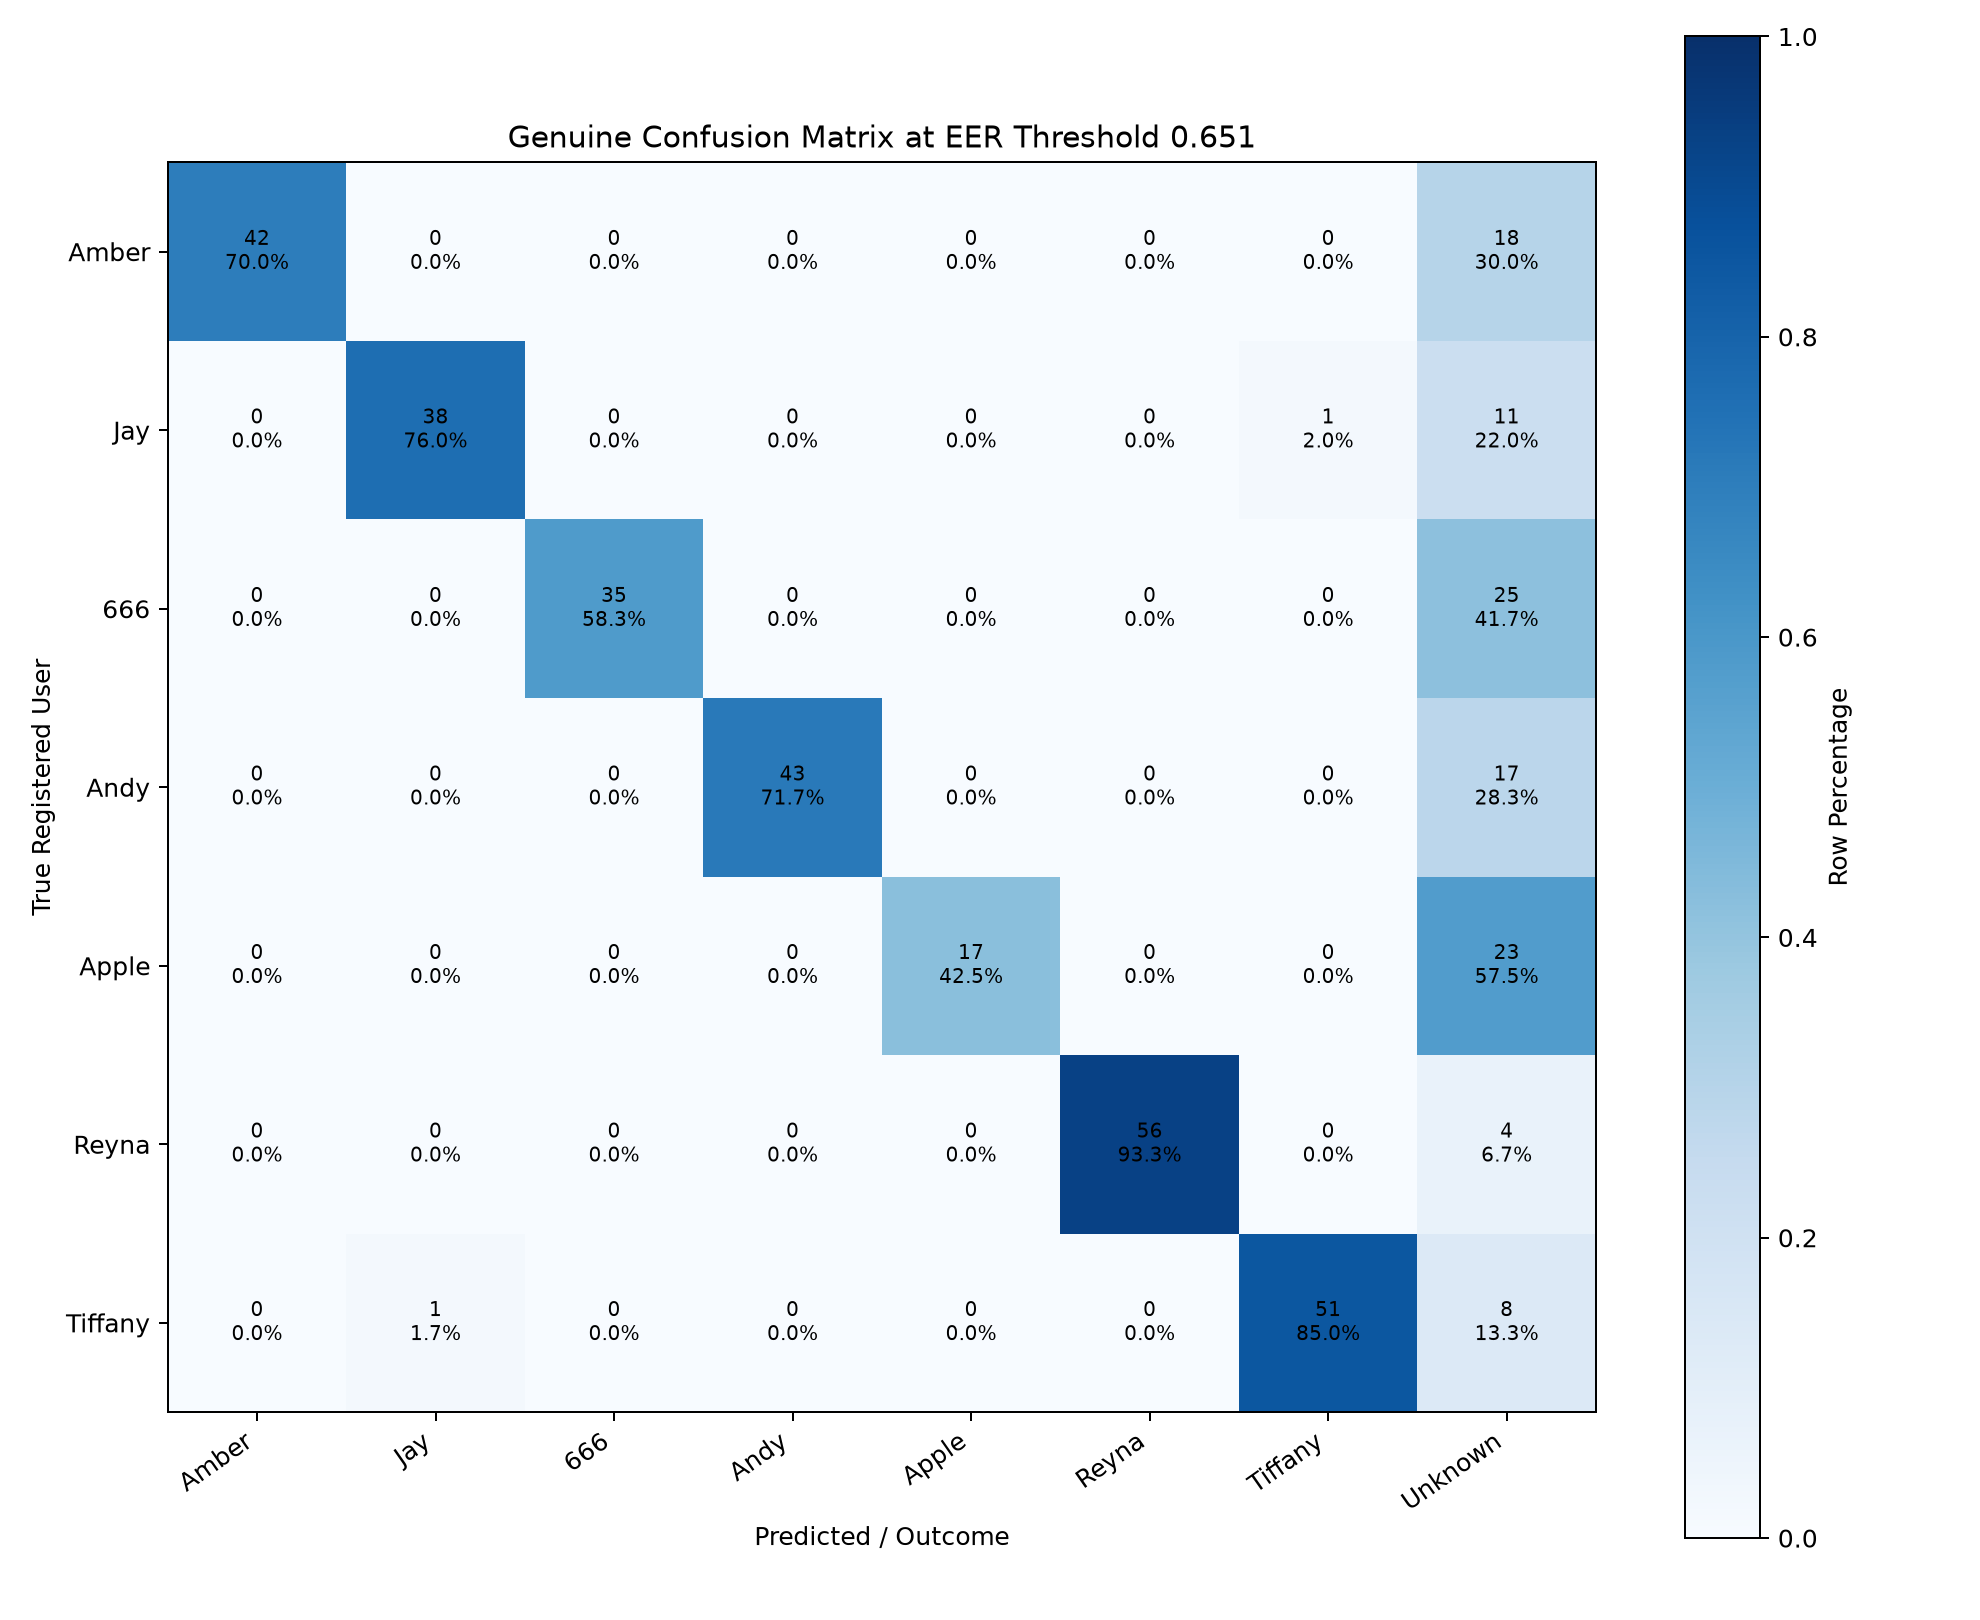
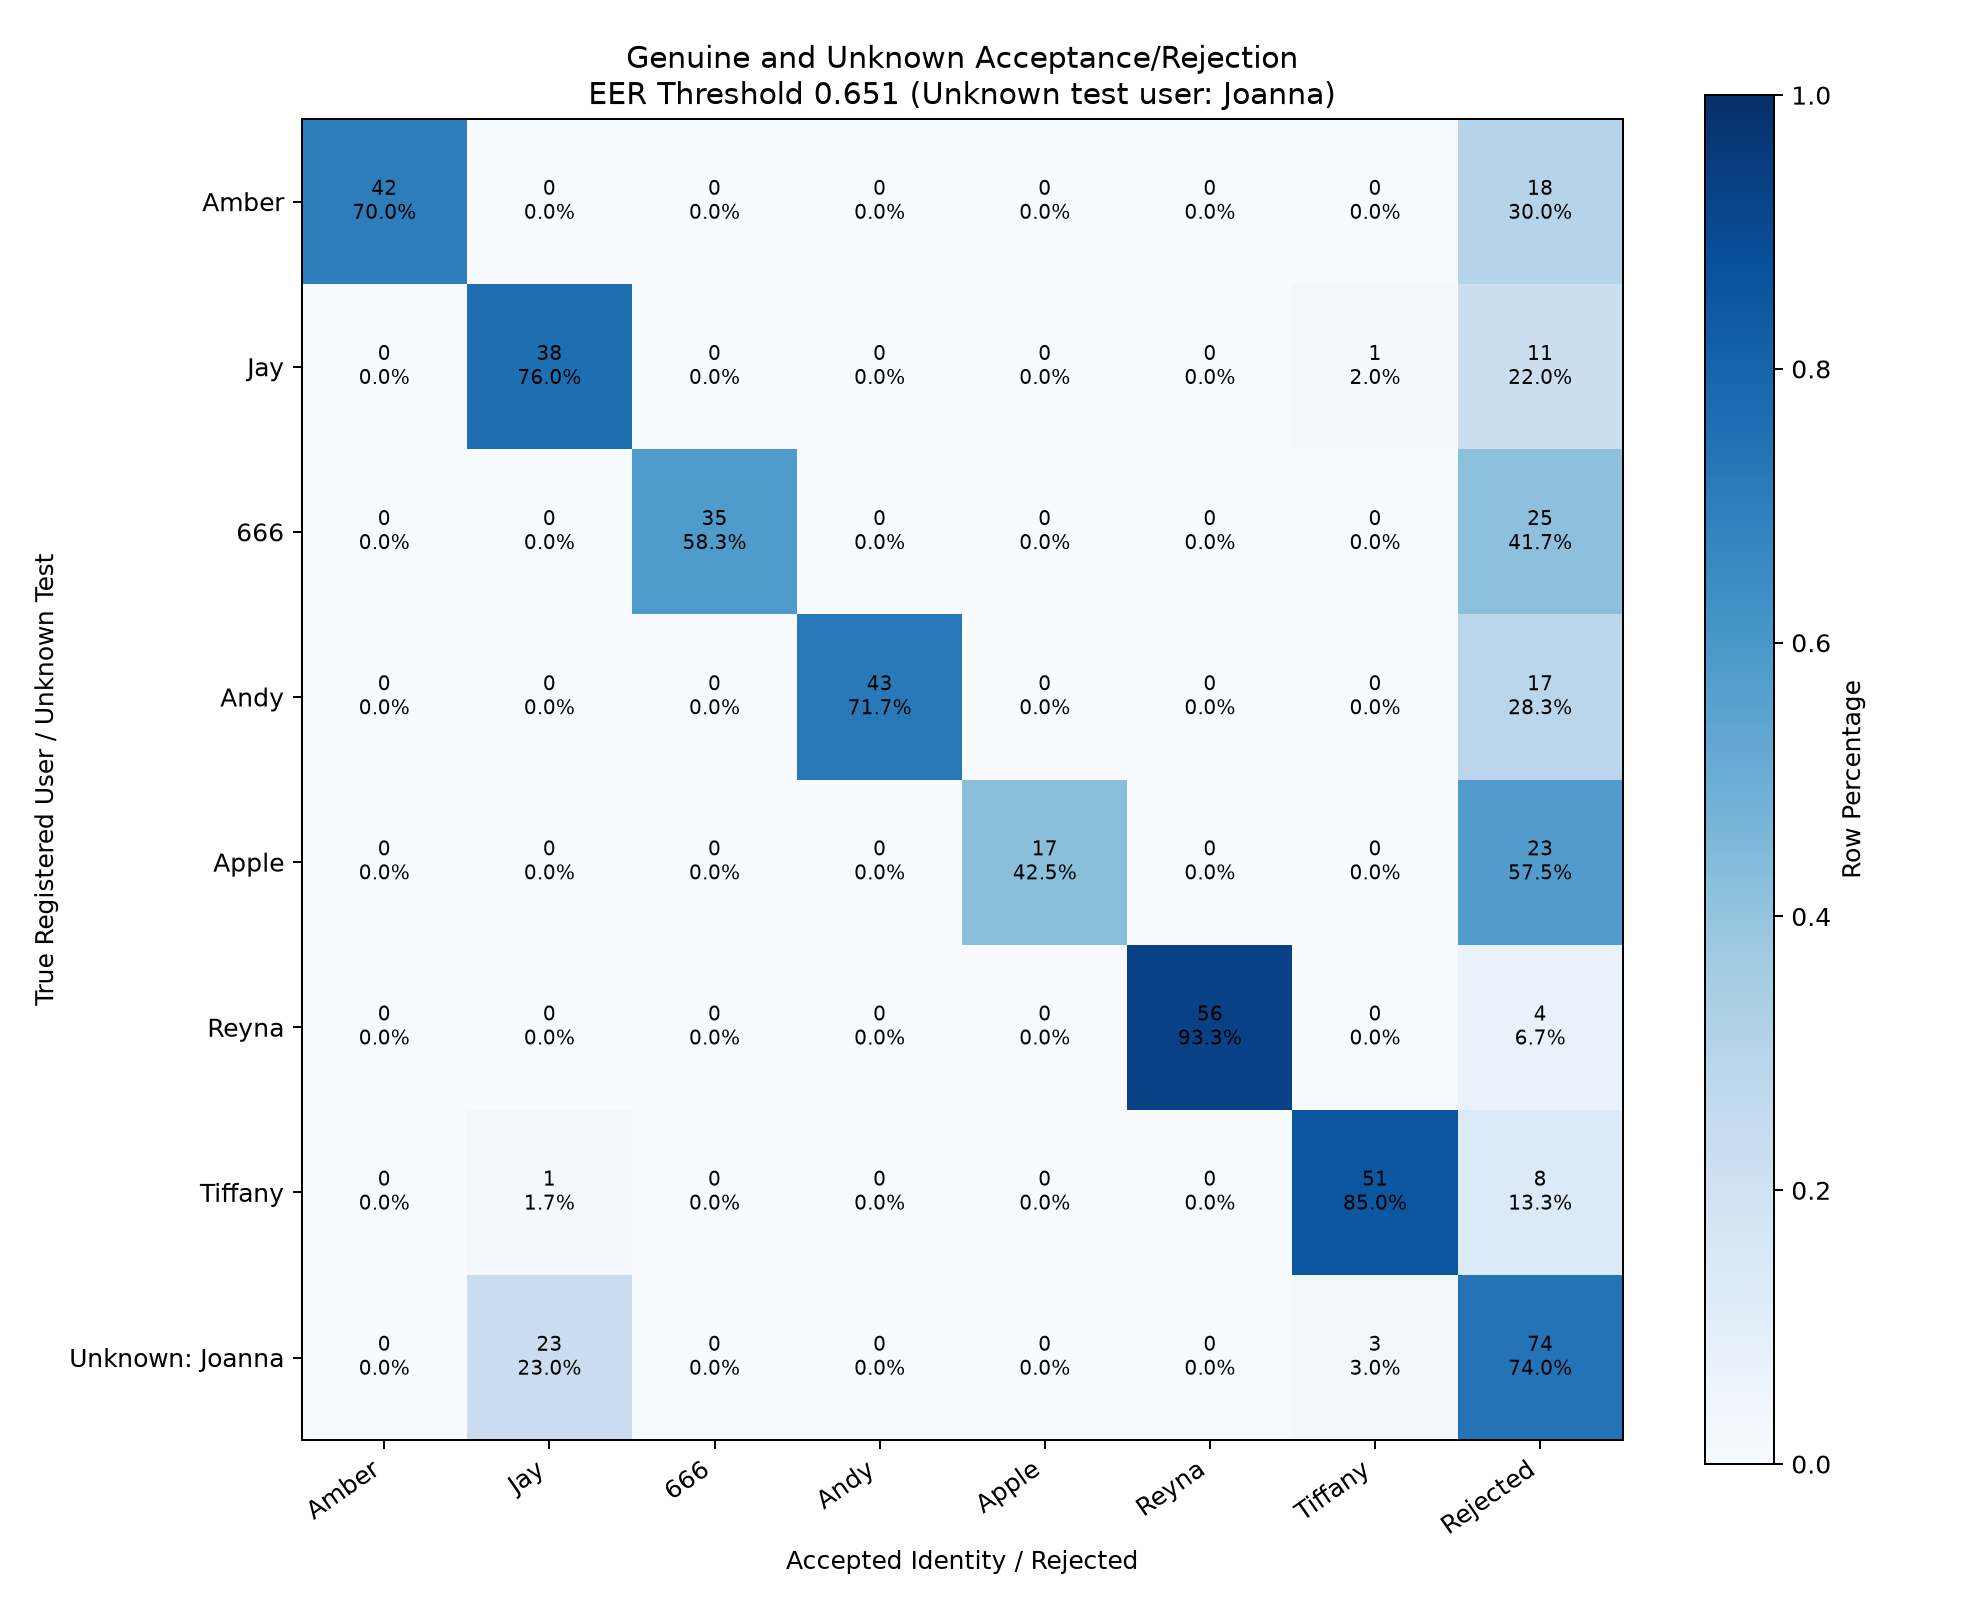
Refactor confusion matrix handling to include genuine and unknown acceptance/rejection outcomes

diff --git a/AI/authentication/random_forest_fixed_dataset_experiment.py b/AI/authentication/random_forest_fixed_dataset_experiment.py
@@ -239,22 +239,31 @@ def interpolate_curve(
 
 def save_confusion_matrix(
     true_labels: np.ndarray,
-    probabilities: np.ndarray,
-    predictions: np.ndarray,
+    genuine_confidence: np.ndarray,
+    genuine_predictions: np.ndarray,
+    unknown_confidence: np.ndarray,
+    unknown_predictions: np.ndarray,
     threshold: float,
 ) -> np.ndarray:
-    passed = probabilities >= threshold
-    final_labels = np.where(
-        passed,
-        predictions,
-        np.asarray([UNKNOWN] * len(predictions)),
-    )
-    class_names = [*ENROLLED_USERS, UNKNOWN]
-    matrix = np.zeros((len(ENROLLED_USERS), len(class_names)), dtype=np.int64)
-    row_index = {name: index for index, name in enumerate(ENROLLED_USERS)}
+    class_names = [*ENROLLED_USERS, "Rejected"]
+    row_names = [*ENROLLED_USERS, f"Unknown: {UNKNOWN_USER}"]
+    matrix = np.zeros((len(row_names), len(class_names)), dtype=np.int64)
+    row_index = {name: index for index, name in enumerate(row_names)}
     column_index = {name: index for index, name in enumerate(class_names)}
-    for true_label, final_label in zip(true_labels, final_labels):
-        matrix[row_index[str(true_label)], column_index[str(final_label)]] += 1
+
+    genuine_accepted = genuine_confidence >= threshold
+    for true_label, prediction, accepted in zip(
+        true_labels,
+        genuine_predictions,
+        genuine_accepted,
+    ):
+        outcome = str(prediction) if accepted else "Rejected"
+        matrix[row_index[str(true_label)], column_index[outcome]] += 1
+
+    unknown_accepted = unknown_confidence >= threshold
+    for prediction, accepted in zip(unknown_predictions, unknown_accepted):
+        outcome = str(prediction) if accepted else "Rejected"
+        matrix[row_index[f"Unknown: {UNKNOWN_USER}"], column_index[outcome]] += 1
 
     fig, axis = plt.subplots(figsize=(11, 9))
     display = matrix.astype(np.float64)
@@ -263,13 +272,17 @@ def save_confusion_matrix(
     image = axis.imshow(display_percent, cmap="Blues", vmin=0, vmax=1)
     fig.colorbar(image, ax=axis, label="Row Percentage")
     axis.set(
-        title=f"Genuine Confusion Matrix at EER Threshold {threshold:.3f}",
-        xlabel="Predicted / Outcome",
-        ylabel="True Registered User",
+        title=(
+            "Genuine and Unknown Acceptance/Rejection\n"
+            f"EER Threshold {threshold:.3f} "
+            f"(Unknown test user: {UNKNOWN_USER})"
+        ),
+        xlabel="Accepted Identity / Rejected",
+        ylabel="True Registered User / Unknown Test",
         xticks=np.arange(len(class_names)),
-        yticks=np.arange(len(ENROLLED_USERS)),
+        yticks=np.arange(len(row_names)),
         xticklabels=class_names,
-        yticklabels=ENROLLED_USERS,
+        yticklabels=row_names,
     )
     plt.setp(axis.get_xticklabels(), rotation=35, ha="right")
     for row in range(matrix.shape[0]):
@@ -668,14 +681,19 @@ def _run_once() -> None:
         y_genuine,
         genuine_confidence,
         genuine_predictions,
+        unknown_confidence,
+        unknown_predictions,
         eer_threshold,
     )
     with (OUTPUT_DIR / "genuine_confusion_matrix.csv").open(
         "w", newline="", encoding="utf-8"
     ) as file:
         writer = csv.writer(file)
-        writer.writerow(["true\\predicted", *ENROLLED_USERS, UNKNOWN])
-        for user, row in zip(ENROLLED_USERS, confusion):
+        writer.writerow(["true\\outcome", *ENROLLED_USERS, "Rejected"])
+        for user, row in zip(
+            [*ENROLLED_USERS, f"Unknown: {UNKNOWN_USER}"],
+            confusion,
+        ):
             writer.writerow([user, *row.tolist()])
 
     gar_at_eer = interpolate_curve(eer_threshold, gar_curve)
